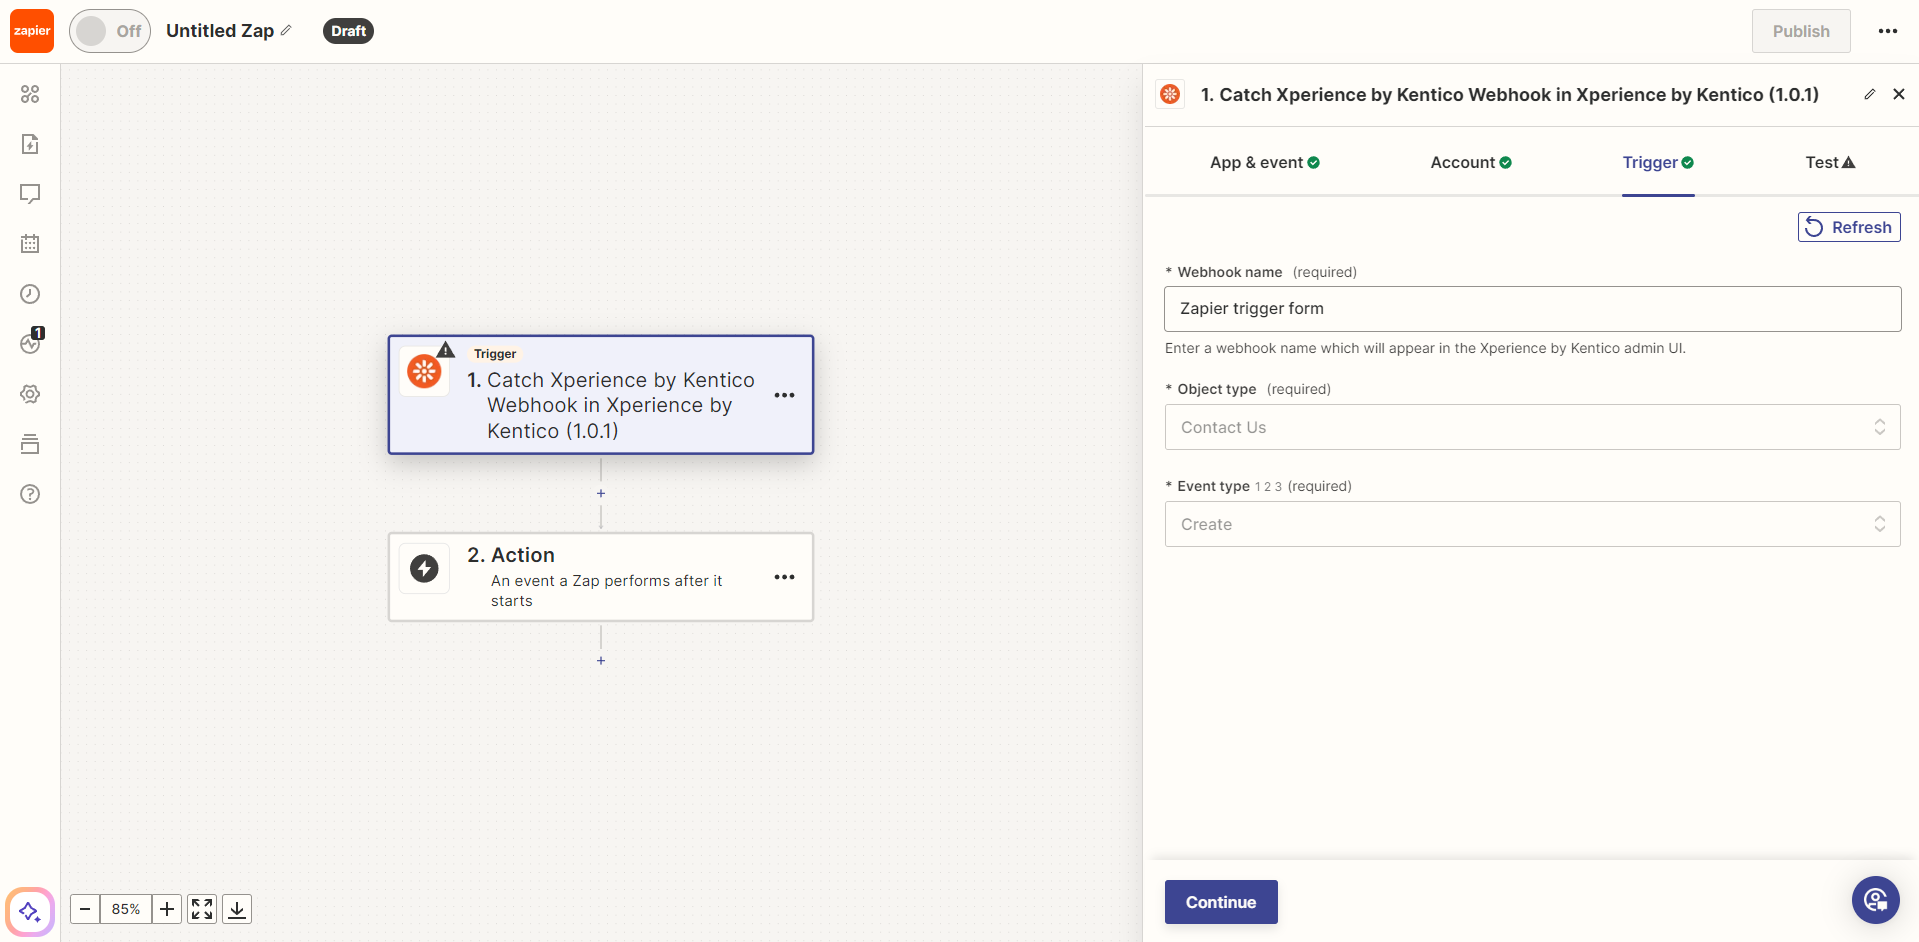
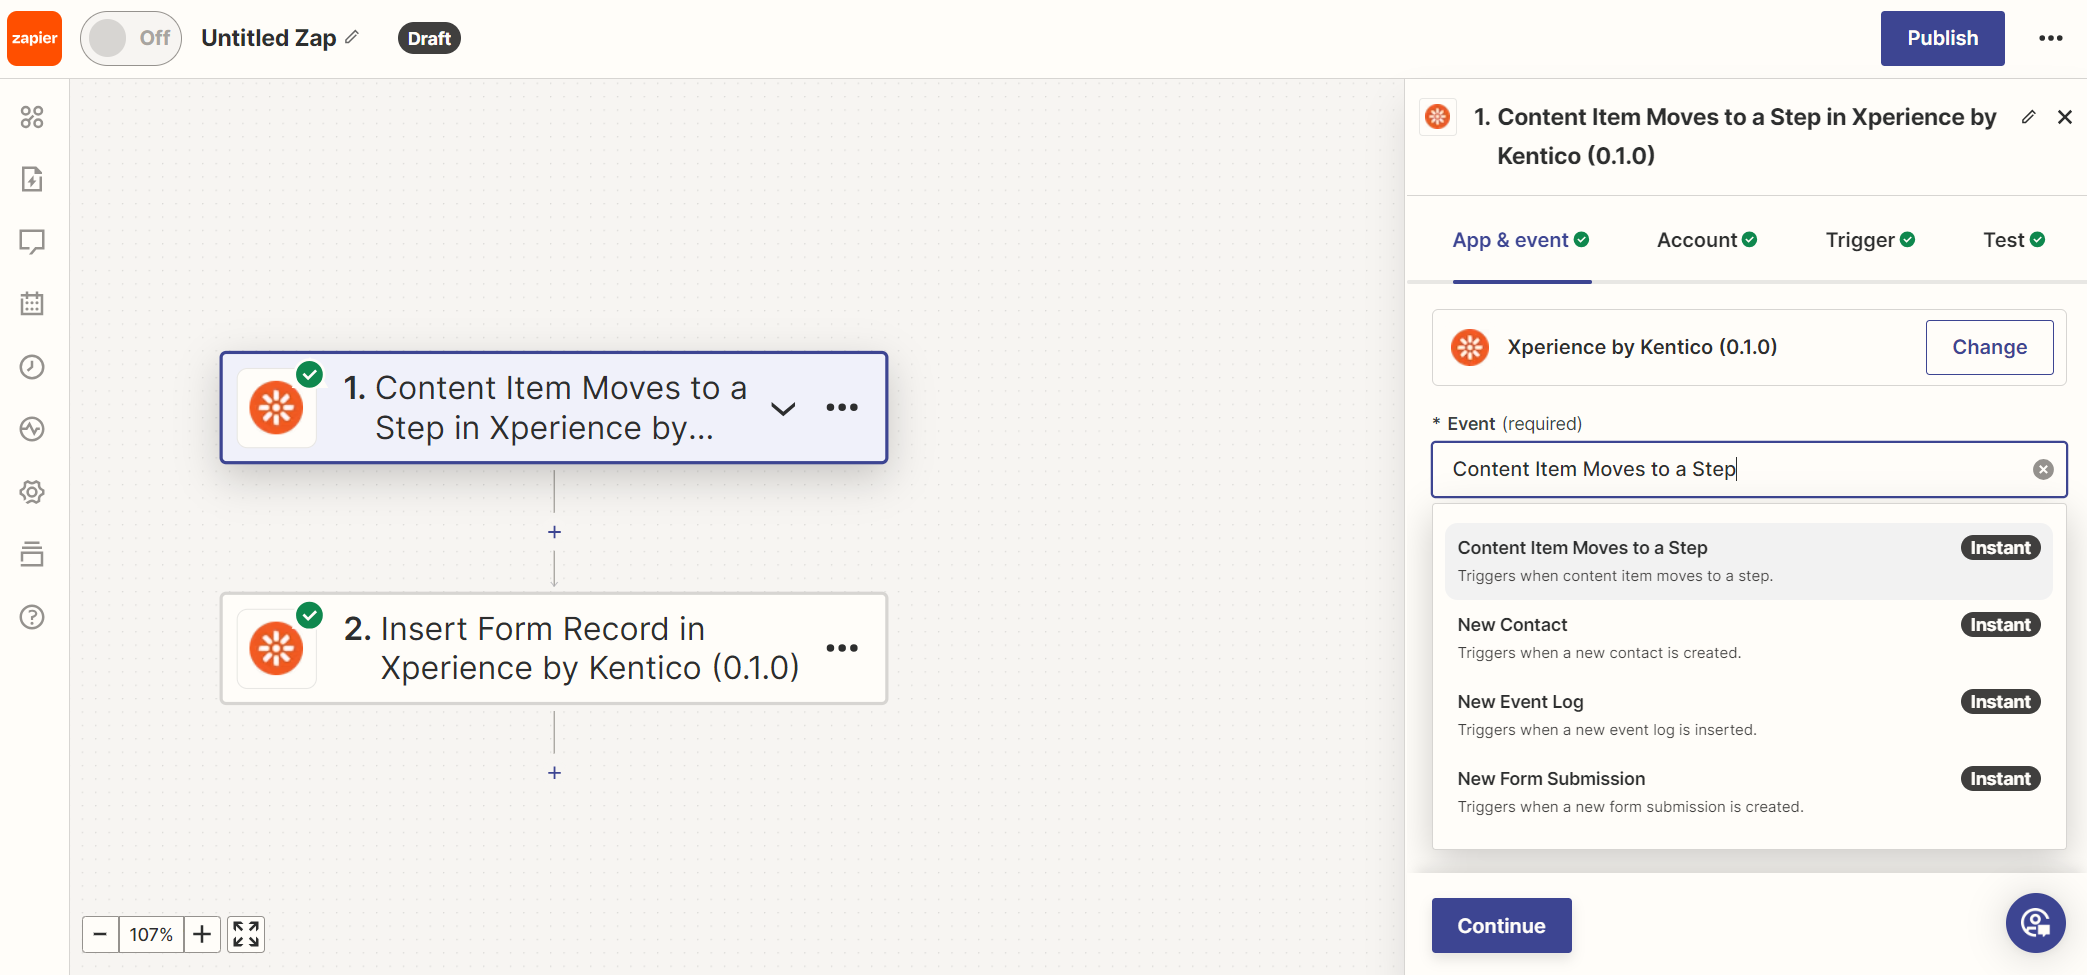
Updated readme

diff --git a/README.md b/README.md
@@ -17,7 +17,9 @@ Zapier integration enables seamless connectivity between a wide range of web app
 ## Screenshots
 
 ![List of zapier triggers](/images/screenshots/listofzapiertriggers.png "List of zapier triggers")
-![Zap creation in zapier UI](/images/screenshots/zapieruitrigger.png "Zap creation in zapier UI")
+![Trigger in zapier UI](/images/screenshots/zapieruitrigger.png "Zap creation in zapier UI: Triggers")
+![Actions in zapier UI](/images/screenshots/zapieruiactions.png "Zap creation in zapier UI: Actions")
+
 
 
 ## Library Version Matrix
@@ -88,17 +90,12 @@ dotnet add package Kentico.Xperience.Zapier --prerelease
 4. On the API Key menu generate new API key for your Zapier application.
     * Save the API key as it will appear only once.
 5. Open your Zapier UI and create new Zap.
-    * As a trigger pick Xperience by Kentico application
-    * Select Event "Catch Xperience by Kentico Webhook"
-    * Then you have to connect an Account using URL of your website (without trailing slash) and your generated API Key from previous step
-    * After your connection, you can set configuration for your trigger. 
-        * Name your trigger
-        * Pick object in Xperience by Kentico which you want to set for an automation process
-        * Select type Event for your object
-    * Test your trigger
-6. Now you can create your own workflow eg. connect with Gmail, Microsoft Teams, ...
-    * You can find more information on https://zapier.com/workflows 
-7. After you finish your automation workflow... Publication of your Zap will create an object in your Xperience by Kentico application.
+    * Select Xperience by Kentico as your trigger or an action.
+    * Then you have to connect an Account using URL of your website (without trailing slash) and your generated API Key from previous step.
+    * After your connection, you can set configuration for your trigger or action. 
+    * Follow the Zapier UI. If you need more information, visit the [Usage Guide](./docs/Usage-Guide.md)
+    * Test your Zap.
+6. After you finish your Zap... Publication of your Zap will create an object in your Xperience by Kentico application.
     * You can find it in administration -> Zapier UI application -> List of Zapier triggers
 
 
